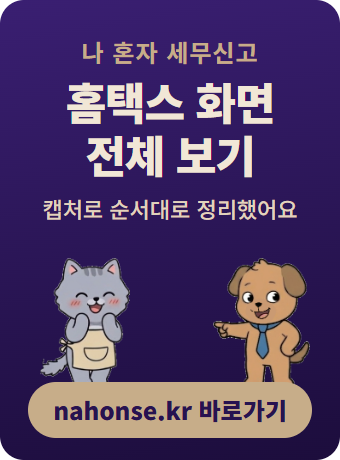
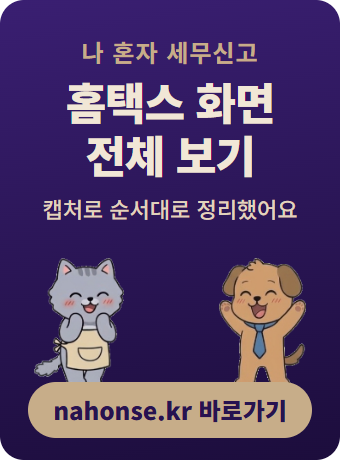
네이버 위젯: 고양이·강아지 만세 그림으로

Changed region(s): [[0.6176, 0.5478, 0.9118, 0.8522], [0.0882, 0.5478, 0.3824, 0.8522]]

diff --git a/_tools/naver-widget.html b/_tools/naver-widget.html
@@ -18,7 +18,7 @@ p{margin:12px 0 0;font-size:22px;color:#e2d3bd;line-height:1.45}
   <div class="k">나 혼자 세무신고</div>
   <h2>홈택스 화면<br>전체 보기</h2>
   <p>캡처로 순서대로 정리했어요</p>
-  <img class="c" src="../assets/toon/cat-happy.png" style="left:40px">
-  <img class="c" src="../assets/toon/dog-point-left.png" style="right:30px">
+  <img class="c" src="../assets/toon/cat-happy.png" style="left:34px">
+  <img class="c" src="../assets/toon/dog-yay.png" style="right:34px">  <!-- 홈 머리처럼 고양이 cat-happy·강아지 dog-yay 만세, 키 같게(11-09 사용자) -->
   <div class="btn">nahonse.kr 바로가기</div>
 </div></body></html>
